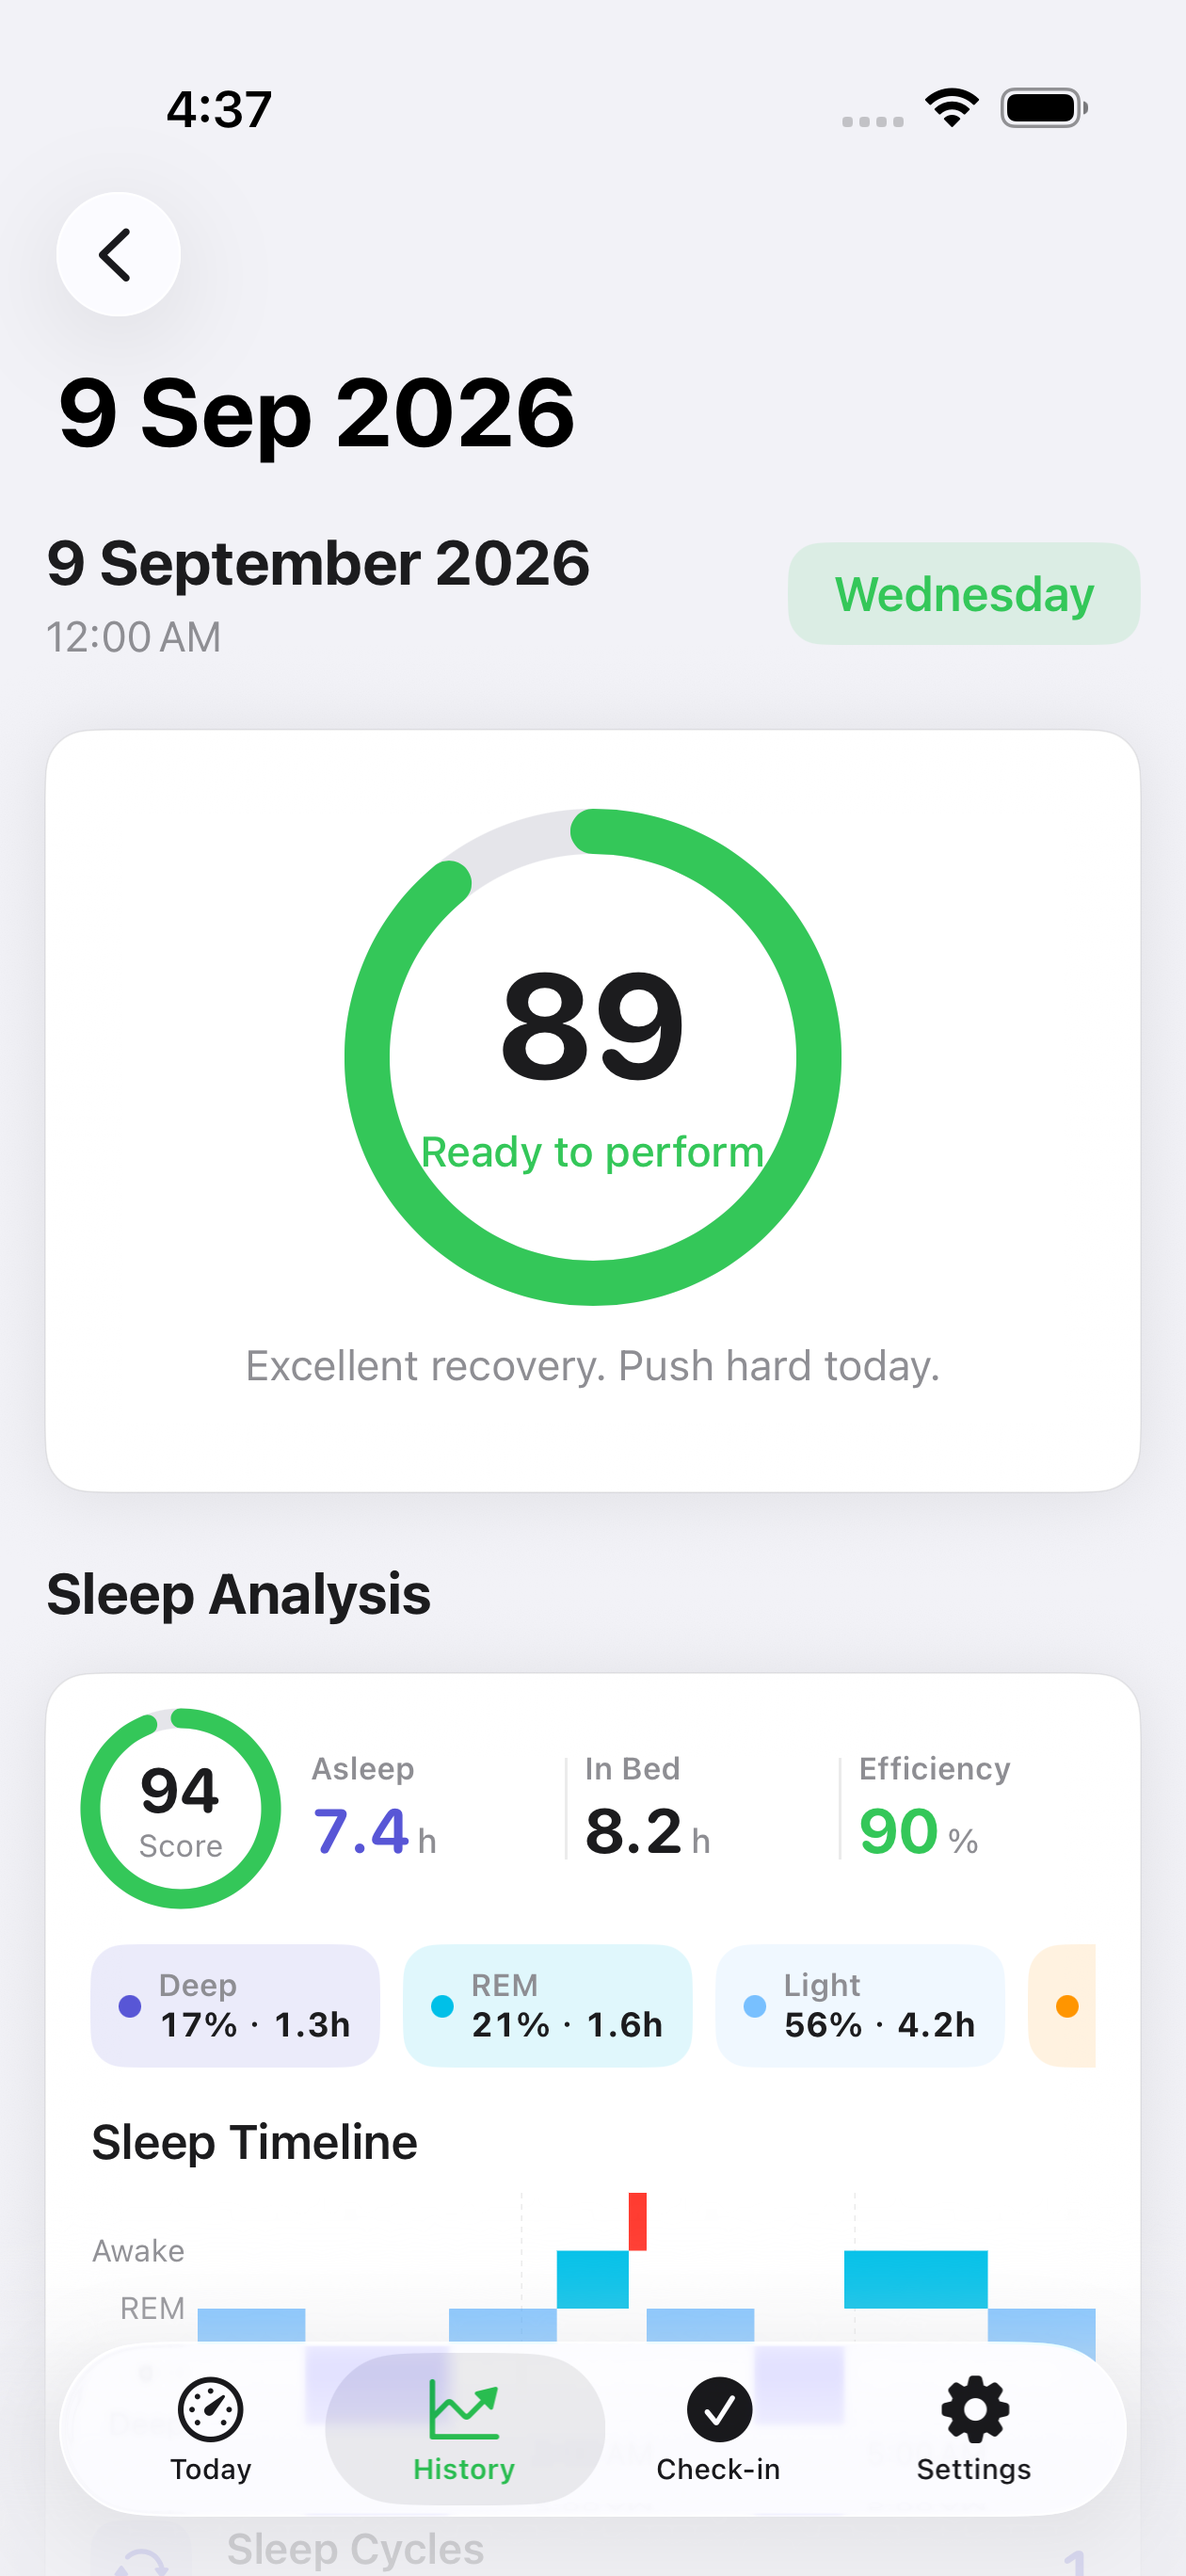
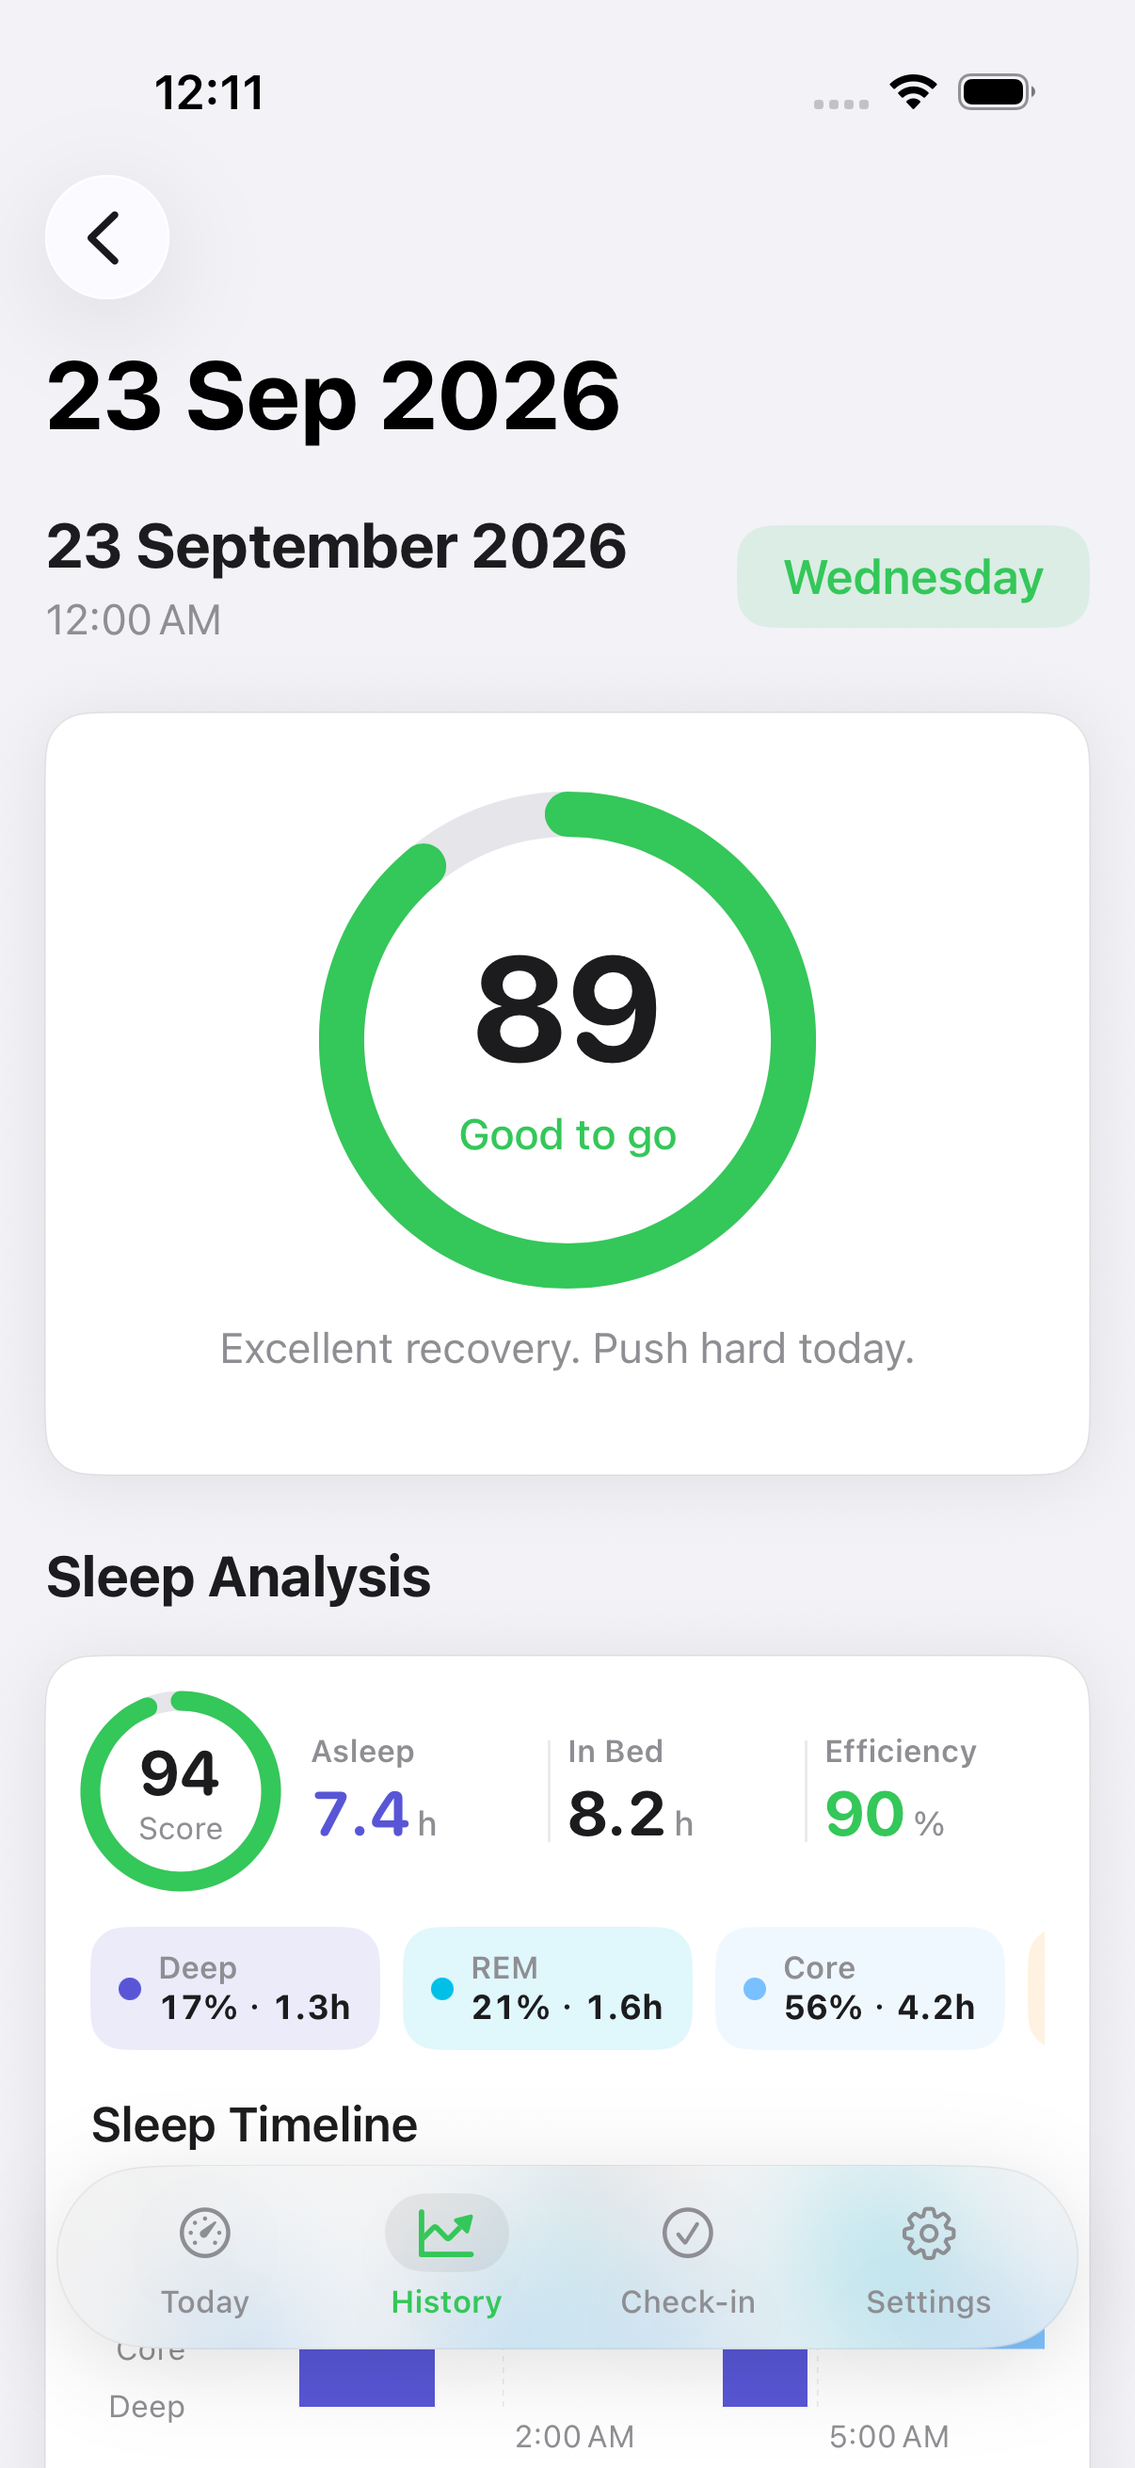
feat(day): Apple Day Detail stage + metric circular wells (Honest #79) (#97)
Circular tint wells on sleep stage rows and metric chips; refresh day-detail audit PNG.

diff --git a/ReadinessTracker/Views/DayDetailView.swift b/ReadinessTracker/Views/DayDetailView.swift
@@ -633,12 +633,14 @@ struct DayDetailView: View {
     ) -> some View {
         VStack(alignment: .leading, spacing: 12) {
             HStack(spacing: 12) {
+                // Honest #79: Apple circular tint well on Day Detail stage rows.
                 Image(systemName: icon)
-                    .font(.system(size: 20))
+                    .font(.system(size: 16, weight: .semibold))
                     .foregroundStyle(color)
                     .frame(width: 40, height: 40)
-                    .background(color.opacity(0.12))
-                    .clipShape(RoundedRectangle(cornerRadius: 10, style: .continuous))
+                    .background(color.opacity(0.14))
+                    .clipShape(Circle())
+                    .accessibilityHidden(true)
                 
                 VStack(alignment: .leading, spacing: 2) {
                     Text(label)
@@ -752,10 +754,15 @@ struct DetailMetricItem: View {
     var body: some View {
         NativeCard {
             VStack(spacing: 10) {
-                HStack(spacing: 6) {
+                HStack(spacing: 8) {
+                    // Honest #79: circular tint well on Day Detail metric chips.
                     Image(systemName: icon)
-                        .font(.system(size: 14, weight: .semibold))
+                        .font(.system(size: 11, weight: .semibold))
                         .foregroundStyle(color)
+                        .frame(width: 26, height: 26)
+                        .background(color.opacity(0.14))
+                        .clipShape(Circle())
+                        .accessibilityHidden(true)
                     Text(label)
                         .font(.caption.weight(.medium))
                         .foregroundStyle(RTColor.secondaryText)

diff --git a/ReadinessTrackerUITests/SurfacesUITests.swift b/ReadinessTrackerUITests/SurfacesUITests.swift
@@ -239,6 +239,7 @@ final class SurfacesUITests: XCTestCase {
     }
 
     func testDayDetailSurface() throws {
+        // Honest #79: Day Detail stage-row + metric-chip circular tint wells.
         // History → day row → DayDetailView (WHOOP night-detail: header metrics, stage % chips, hypnogram, cycles).
         // Alternate path Today → Sleep Stages also lands on elevated Sleep Analysis chrome.
         _ = app.staticTexts["Readiness"].waitForExistence(timeout: 8)

diff --git a/.cursor/skills/verify-readiness-tracker/features/day-detail-wells.md b/.cursor/skills/verify-readiness-tracker/features/day-detail-wells.md
@@ -1,0 +1,19 @@
+# Day Detail stage + metric wells
+
+## Sub-features
+- Sleep stage detail rows (Deep/REM/Core/Awake)
+- Day Detail metric chips
+- Circular tint SF Symbol wells (was rounded rect / bare)
+
+## How to get to it (user POV)
+1. History → day row (or Today → Sleep Stages)
+2. Open Day / Sleep Analysis detail
+3. Stage rows and metric chips use circular tint wells
+
+## Driving it with the harness
+- UITest: `SurfacesUITests.testDayDetailSurface`
+- Captures `.audit/verify-day-detail.png`
+
+## Gotchas
+- Keep optimal checkmark / caution glyph on the trailing side
+- Do not invent Fitness+ chrome

diff --git a/.cursor/skills/verify-readiness-tracker/features/README.md b/.cursor/skills/verify-readiness-tracker/features/README.md
@@ -12,3 +12,4 @@
 | Journal Log-7-days cue well | `journal-cue-well.md` | chart.bar circular well |
 | Today Journal button well | `journal-button-well.md` | book.closed circular well |
 | Today QuickTrend wells | `quick-trend-wells.md` | Quick Trends circular wells |
+| Day Detail wells | `day-detail-wells.md` | Stage/metric circular wells |
